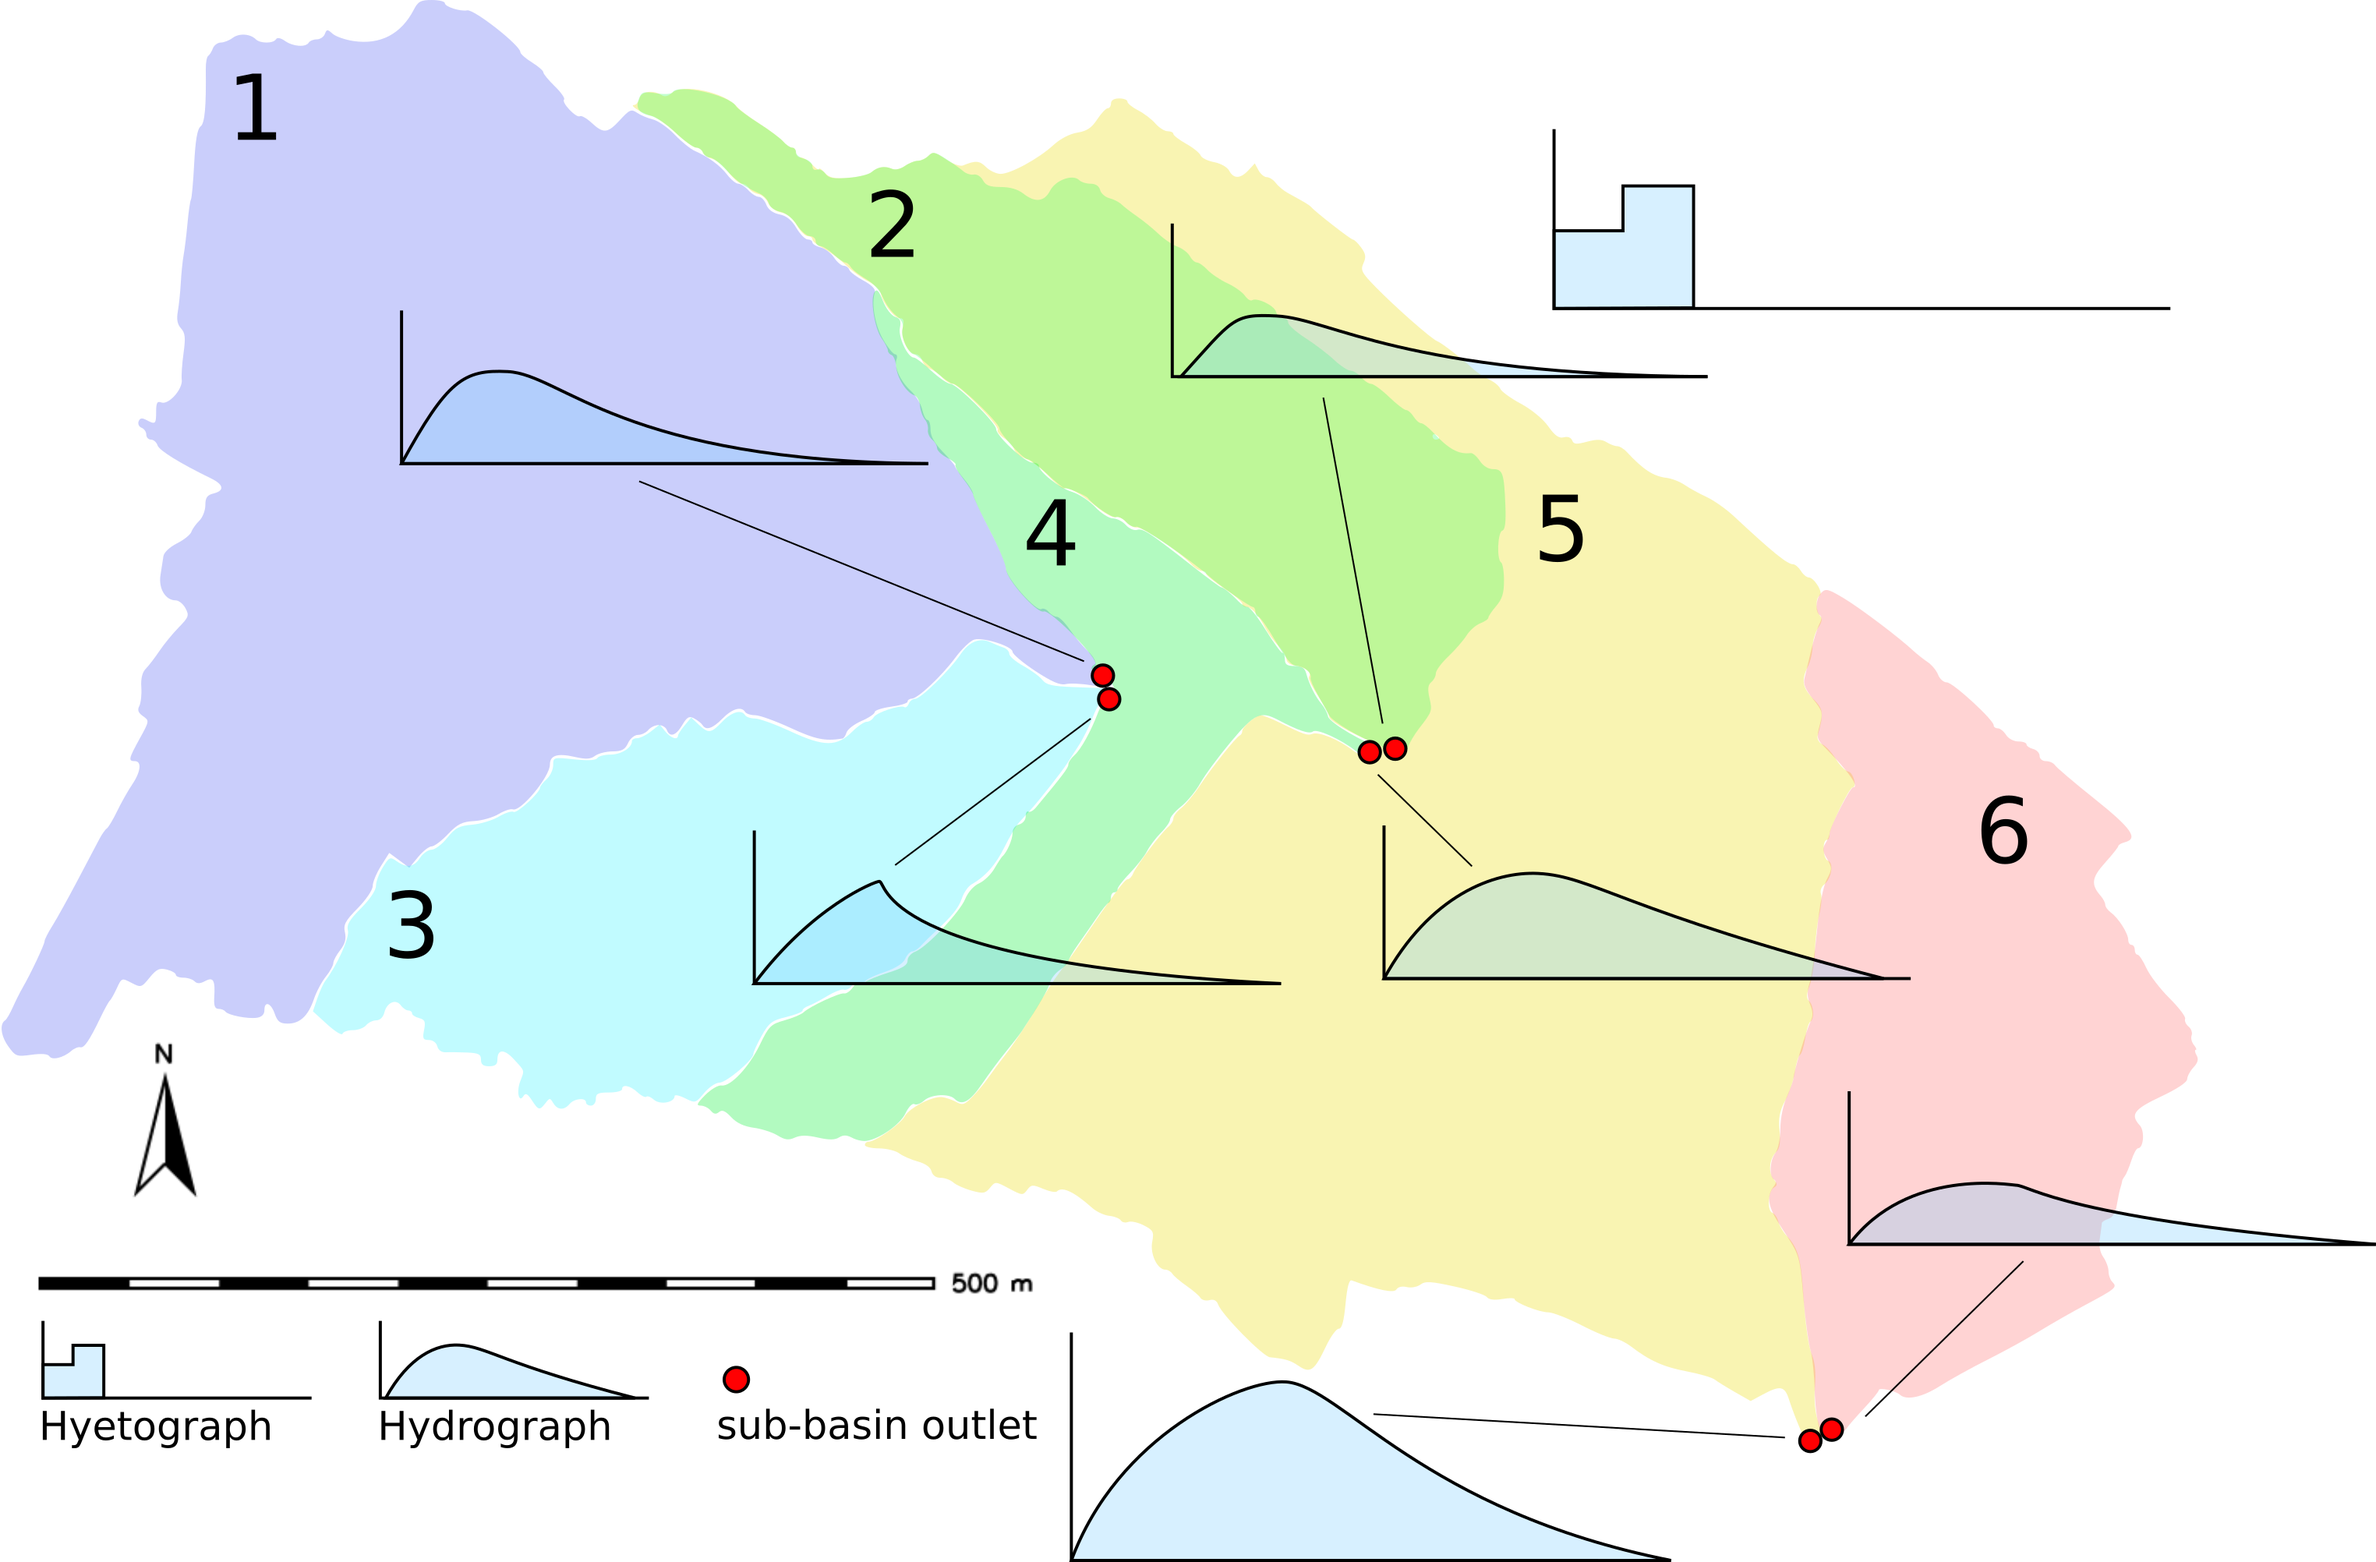
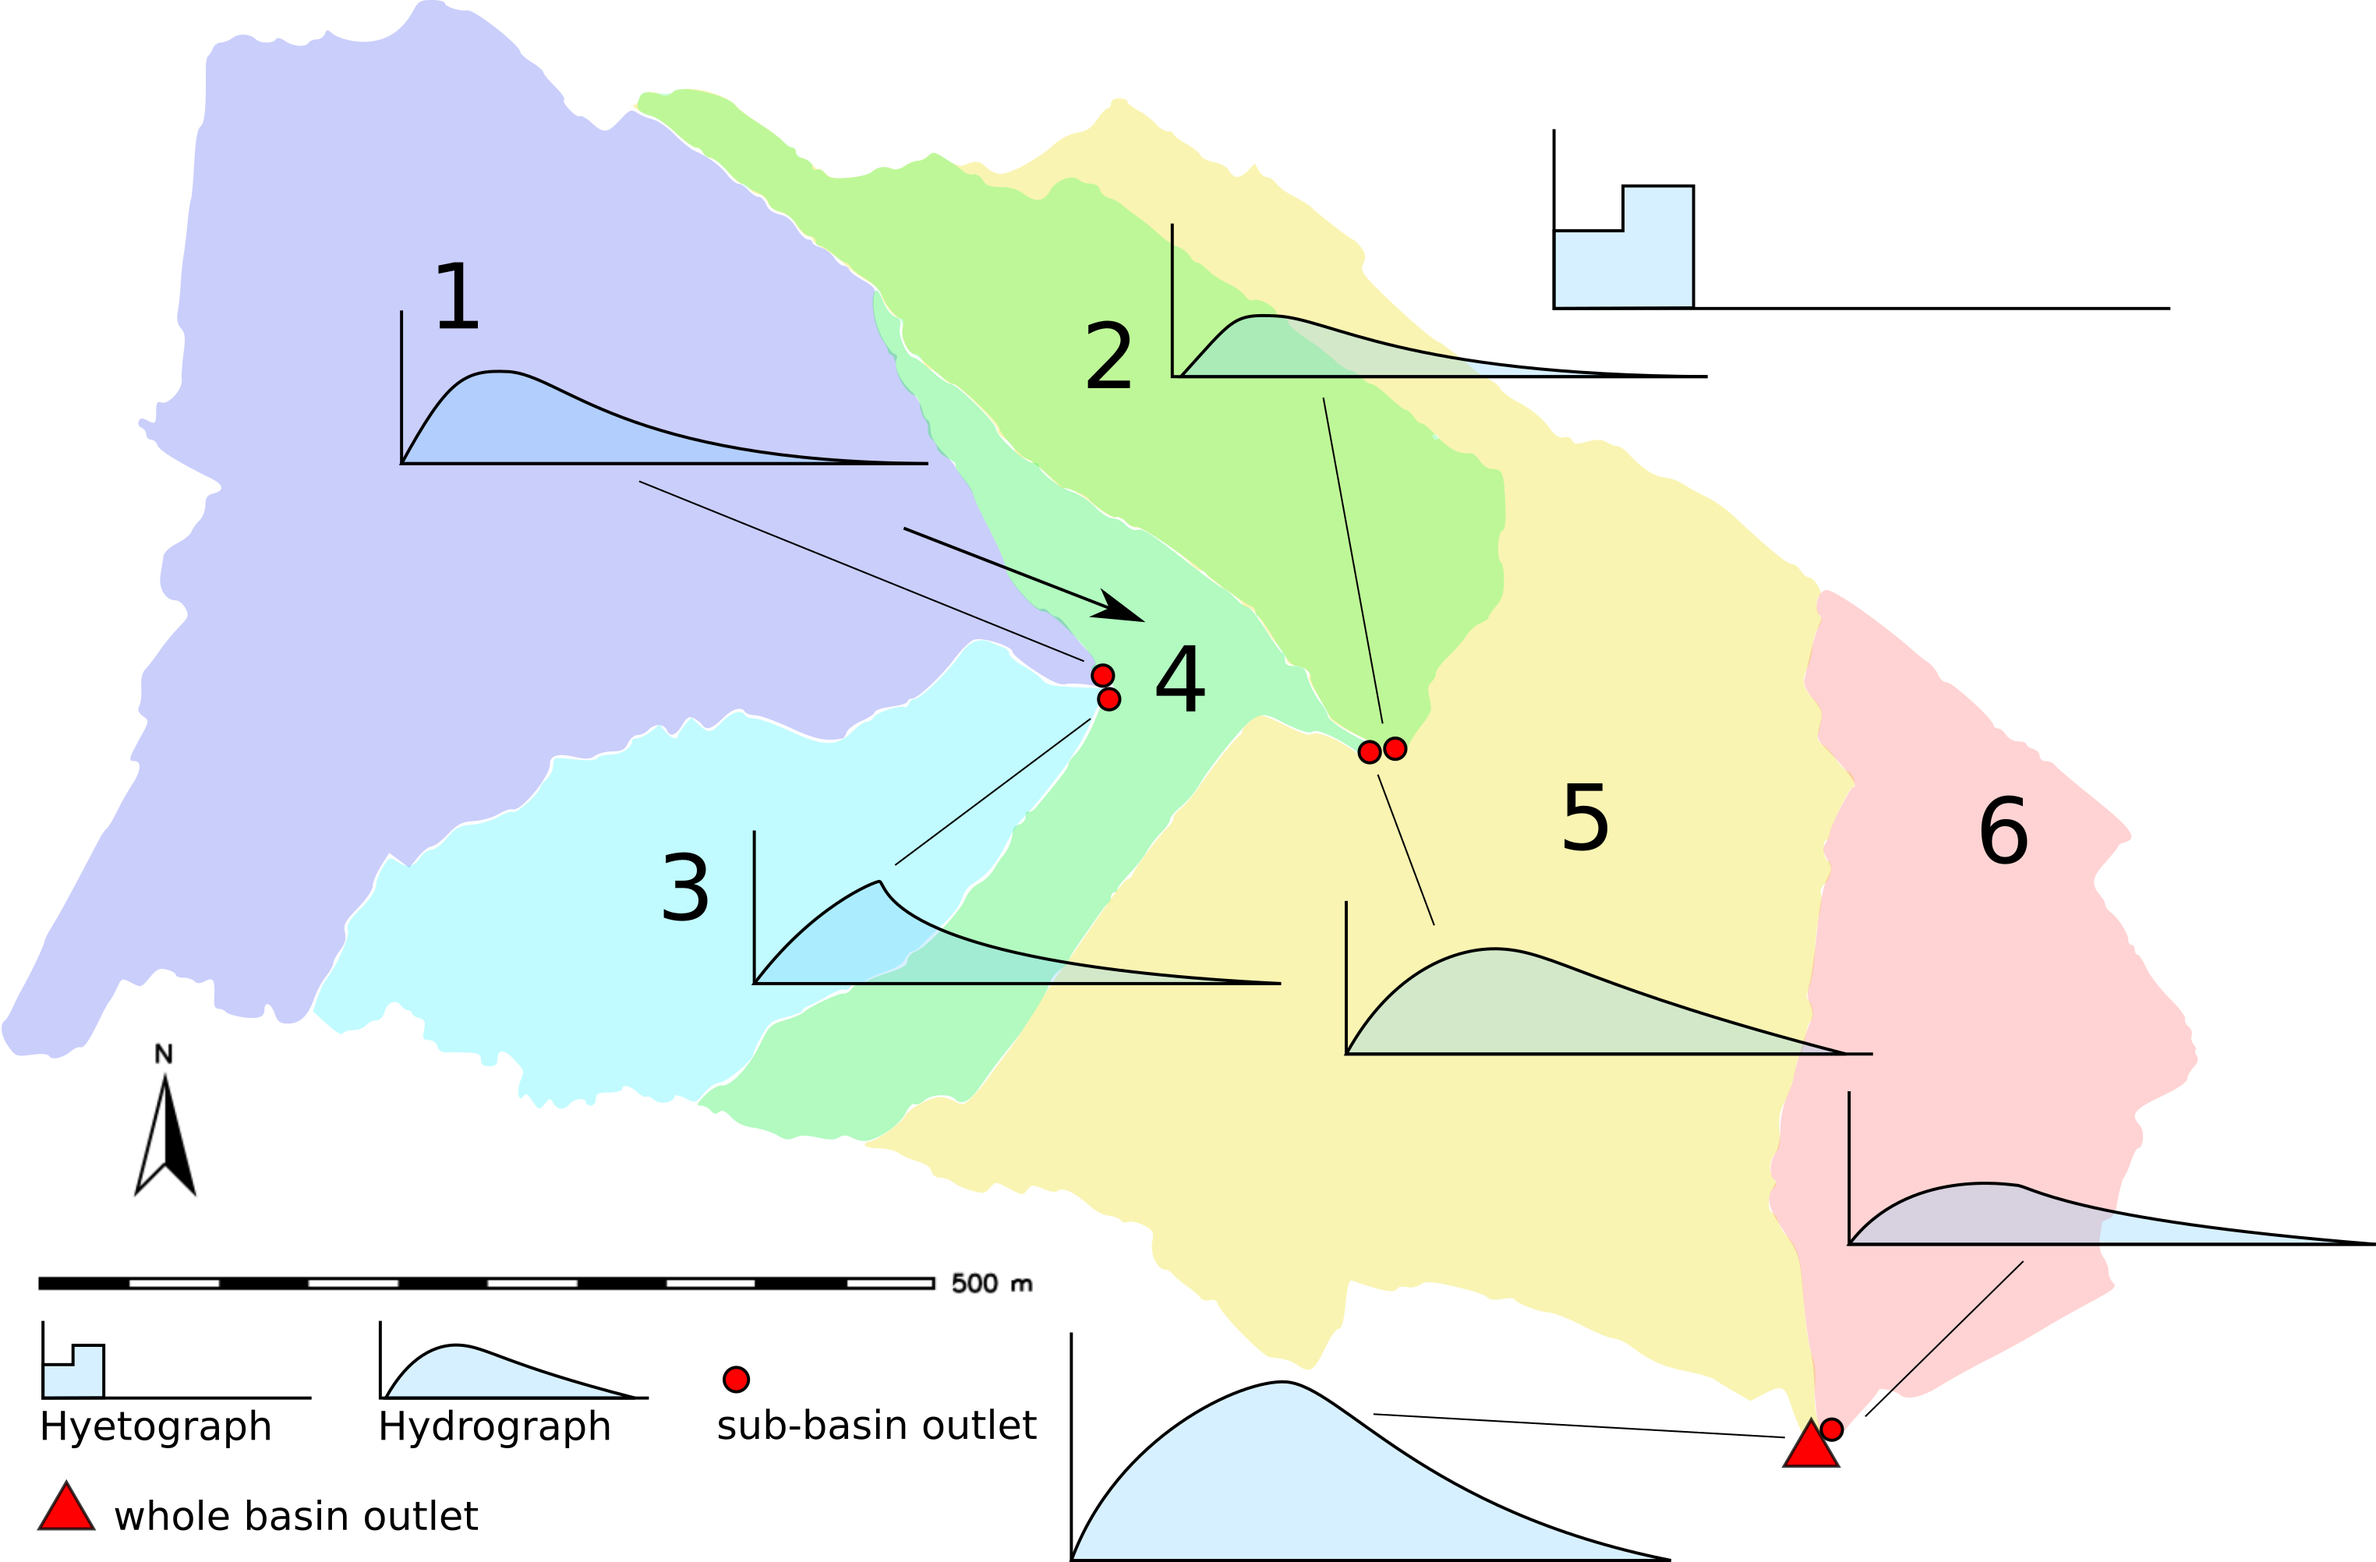
cpu-paralelization description  finished (roughly) and figure updated

diff --git a/foss4g-2019-paper/desc_parallel_expr.tex b/foss4g-2019-paper/desc_parallel_expr.tex
@@ -72,43 +72,59 @@ Besides the GPU-based parallelization (with TensorFlow \cite{tensorflow2015-whit
 NVIDIA Cuda technology~\cite{Kalyanapu2011,Le2015}) the
 CPU-parallelization may also bring a good improvement in the computation
 time reduction. The computation domain is separated into sub-domains
-based on certain algorithm were each sub-domains is loaded to single
+based on certain algorithm were each sub-domain is loaded to single
 CPU core. The domain may be separated into sub-domain with equal area
 based on a defined grid. It is beneficial to incorporate also
 hydrological behavior in the parallelization
-strategy. In~\cite{Vivoni2011} the basins was separated in sub-basins
-based on stream network. The sub-basins communicated with so called
-ghost cell with each other where the water flowed between
-sub-basins. The strategy aimed to generate as less ghost cells as
+strategy if the domain is a hydrological basin. 
+In~\cite{Vivoni2011} the basin was separated in sub-basins
+based on stream network. The sub-basins communicated with each other through so called
+ghost cell. The strategy aimed to generate as less ghost cells as
 possible.
 
 The parallelization strategy outlined in the manuscript is based on
 the hydrological reality and it is depicted in a simplified setup in
-the Figure~\ref{fig:cpu-parallel}. The strategy main goal is to reduce
-the communication CPU-cores during the computation as much as
+the Figure~\ref{fig:cpu-parallel}. In this example an Nučice experimental 
+was chosen to present the parallelization strategy. At this 0.5 km$^2$ large 
+basin a long tern monitoring of erosion and runoff processes is being conducted 
+by the Dept.\ of Landscape Water Conservation. 
+
+The strategy main goal is reduction of
+the communication between CPU-cores during the computation as much as
 possible. The whole basin is divided into several sub-basins based on
-the digital elevation model. Outlet of each sub-basin is depicted with
+the digital elevation model and user defined sub-basin size. 
+Outlet of each sub-basin is depicted with
 red dots in the Figure~\ref{fig:cpu-parallel}. After the sub-basins
-are defined an order in which to be computed is defined as
+are defined, an order in which each sub-basin will be computed is defined as
 follows. Sub-basins which are hydrologically the farthest from the
-basin outlet and therefore have no inflow flow upslope catchments are
-calculated at first. Those sub-basins have the rainfall recorded in
-hyetograph as the only input. In the simplified setup shown in the
+basin outlet (depicted by triangle in Figure~\ref{fig:cpu-parallel}) 
+and therefore have no inflow flow upslope catchments are
+calculated at first. Those sub-basins have the rainfall stored in
+hyetographs the only input. In the simplified setup shown in the
 Figure~\ref{fig:cpu-parallel}, the sub-basins 1, 2, 3, and 6 are
 calculated at first in parallel. The calculated hydrographs of the
-sub-basins 1, 2, 3, and 4 are stored in the memory. Sub-basins which
+sub-basins 1, 2, 3, and 4 are stored in the memory for later. Sub-basins which
 has an inflow from sub-basins 1, 2, 3, and 6 are calculated next. It
-this case it is only the sub-basin 4. In this case the water input in
-the calculation are, besides the hyetograph, also hydrographs of
-sub-basins 1 and 3 which flow in the basin 4. This the same manned are
-calculated sub-basins towards in the outlet. (to be finished).
+this case it is only the sub-basin 4. The water input in
+the calculation of sub-basin 6 are now hyetograph and also hydrographs of
+sub-basins 1 and 3. This the same manned are
+calculated sub-basins towards in the whole basin outlet where its hydrograph 
+is the desired outcome.
 
-(add about possible advantages and disadvantages)
+This approach may encounter in several limitations where the main one 
+originates in the basin geometry. In case of narrow  basin a situation 
+where each sub-basin has only one inflow and one outflow sub-basin may occur.
+In this case, the computation sub-basins will be computed in parallel, which
+lose the advantage of multi-core working station. If this situation happens
+the user will be forced to create very small sub-basins in order to be able 
+to performed the outlined CPU-parallelization. The possibilities of CPU-parallelization
+outlined in this section will be the subject of further research.
+
 
 \begin{figure}[ht!]
   \begin{center}
     \includegraphics[width=1.0\columnwidth]{figures/smoderp-cpu-parallel.png}
-    \caption{Strategy for CPU-parallelization}
+    \caption{Simple example of possible CPU-parallelization strategy for the experimental catchment Nučice}
     \label{fig:cpu-parallel}
   \end{center}
 \end{figure}
